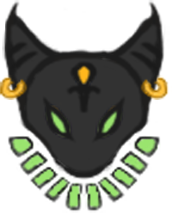
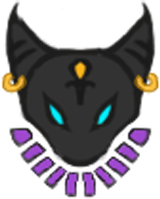
Update asset et début de UI

diff --git a/src/SceneUI.js b/src/SceneUI.js
@@ -1,0 +1,72 @@
+class SceneUI extends Phaser.Scene {
+
+    constructor() {
+        super({ key: 'UIScene'});
+    }
+
+    preload(){
+        this.load.image('icncat', 'assets/images/UI/Icone10.png');
+        for (let i = 0; i <= 10; i++) {
+            this.load.image('icncat' + i, 'assets/images/UI/Icone' + i + '.png');
+        }
+    }
+    create(){
+
+        //Affichage UI
+
+        this.Iconcat10 = this.add.image(20, 50, 'icncat10').setOrigin(0, 0);
+        this.Iconcat10.setScale(1.5)
+        this.Iconcat10.setVisible(true)
+
+        this.Iconcat9 = this.add.image(20, 50, 'icncat9').setOrigin(0, 0);
+        this.Iconcat9.setScale(1.5)
+        this.Iconcat9.setVisible(false)
+
+        this.Iconcat8 = this.add.image(20, 50, 'icncat8').setOrigin(0, 0);
+        this.Iconcat8.setScale(1.5)
+        this.Iconcat8.setVisible(false)
+
+        this.Iconcat7 = this.add.image(20, 50, 'icncat7').setOrigin(0, 0);
+        this.Iconcat7.setScale(1.5)
+        this.Iconcat7.setVisible(false)
+
+        this.Iconcat6 = this.add.image(20, 50, 'icncat6').setOrigin(0, 0);
+        this.Iconcat6.setScale(1.5)
+        this.Iconcat6.setVisible(false)
+
+        this.Iconcat5 = this.add.image(20, 50, 'icncat5').setOrigin(0, 0);
+        this.Iconcat5.setScale(1.5)
+        this.Iconcat5.setVisible(false)
+
+        this.Iconcat4 = this.add.image(20, 50, 'icncat4').setOrigin(0, 0);
+        this.Iconcat4.setScale(1.5)
+        this.Iconcat4.setVisible(false)
+
+        this.Iconcat3 = this.add.image(20, 50, 'icncat3').setOrigin(0, 0);
+        this.Iconcat3.setScale(1.5)
+        this.Iconcat3.setVisible(false)
+
+        this.Iconcat2 = this.add.image(20, 50, 'icncat2').setOrigin(0, 0);
+        this.Iconcat2.setScale(1.5)
+        this.Iconcat2.setVisible(false)
+
+        this.Iconcat1 = this.add.image(20, 50, 'icncat1').setOrigin(0, 0);
+        this.Iconcat1.setScale(1.5)
+        this.Iconcat1.setVisible(false)
+
+        this.Iconcat0 = this.add.image(20, 50, 'icncat0').setOrigin(0, 0);
+        this.Iconcat0.setScale(1.5)
+        this.Iconcat0.setVisible(false)
+    }
+
+    UIUpdate(){
+        if(CatTimer <= 180){
+            this.Iconcat10.setVisible(false)
+        }
+    }
+
+    update(){
+        this.UIUpdate()
+    }
+
+}

diff --git a/src/scene.js b/src/scene.js
@@ -6,6 +6,7 @@ class scene extends Phaser.Scene {
 
     preload() {
         this.load.image('background', 'assets/images/background.png');
+
         this.load.image('spike', 'assets/images/spike.png');
         this.load.image('player', 'assets/images/Bastet.png');
         // At last image must be loaded with its JSON
@@ -19,17 +20,19 @@ class scene extends Phaser.Scene {
 
     create() {
 
+        this.scene.launch("UIScene")
 
-
-
-        const backgroundImage = this.add.image(0, -120, 'background').setOrigin(0, 0);
+        //Background
+        const backgroundImage = this.add.image(0, 0, 'background').setOrigin(0, 0);
         backgroundImage.setScale(1, 1);
+
         const map = this.make.tilemap({key: 'map'});
 
         const tileset = map.addTilesetImage('main_tileset', 'tiles');
 
         this.blocks = map.createStaticLayer('Ground', tileset);
         //this.blocks.setCollisionByExclusion(-1, true);
+
 
 
 
@@ -63,7 +66,8 @@ class scene extends Phaser.Scene {
         this.physics.add.collider(this.collide, this.player.player);
 
         //this.cameras.main.startFollow(this.player.player,false);
-        this.cameras.main.setBounds(0, 0, 35840, 1152);
+        this.cameras.main.setBounds(45, -2, 15000, 15000)
+        this.cameras.main.zoom = 0.7
     }
 
 

diff --git a/src/main.js b/src/main.js
@@ -5,7 +5,15 @@ const config = {
     heigth: 1080,
     scale: {
         mode: Phaser.Scale.RESIZE,
-        autoCenter: Phaser.Scale.CENTER_BOTH
+        autoCenter: Phaser.Scale.CENTER_BOTH,
+        min: {
+            width: 720,
+            height: 680
+        },
+        max: {
+            width: 1280,
+            height: 720,
+        }
     },
     physics: {
         default: 'arcade',
@@ -14,7 +22,7 @@ const config = {
             debug: true,
         },
     },
-    scene: [SceneMenu,scene]
+    scene: [SceneMenu,scene,SceneUI]
 };
 
 const game = new Phaser.Game(config);

diff --git a/src/SceneMenu.js b/src/SceneMenu.js
@@ -14,10 +14,10 @@ class SceneMenu extends Phaser.Scene {
     }
 
     create() {
-        this.add.image(855,350,'icon').setOrigin(0,0).setScale(1);
-        this.add.image(500,150,'title').setOrigin(0,0).setScale(1);
+        this.add.image(550,250,'icon').setOrigin(0,0).setScale(1);
+        this.add.image(120,75,'title').setOrigin(0,0).setScale(1);
 
-        let playbutton = this.add.image(940,700,'play');
+        let playbutton = this.add.image(630,525,'play');
         playbutton.setScale(1);
 
         playbutton.setInteractive();

diff --git a/index.html b/index.html
@@ -28,8 +28,9 @@
 <body>
   <div id="game"></div>
   <script src="lib/phaser.js"></script>
-  <script src="src/scene.js"></script>
+  <script src="src/SceneUI.js"></script>
   <script src="src/SceneMenu.js"></script>
+  <script src="src/scene.js"></script>
   <script src="src/Player.js"></script>
   <script src="src/main.js"></script>
 </body>
